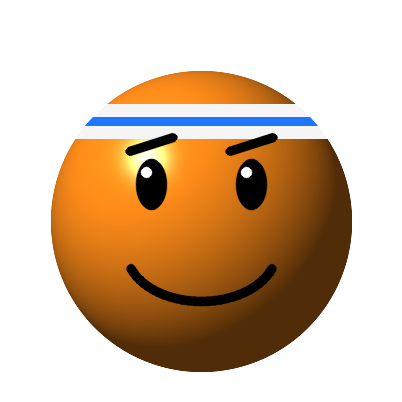
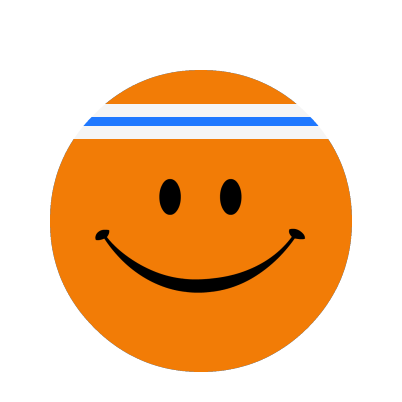
Character images in the app are the real Verity art (recolored), not drawn balls

diff --git a/verity/avatar.py b/verity/avatar.py
@@ -101,7 +101,9 @@ def _inside(img, layer):
 
 # static parts, baked into the base once per character
 def split_base(img, color):
-    layer = img.copy(); layer[:, CX:, :3] = (layer[:, CX:, :3].astype(np.float32) * .45 + 255 * .55).astype(np.uint8)
+    layer = img.copy(); right = layer[:, CX:, :3]
+    face = right.max(axis=2, keepdims=True) > 90                          # lighten the face colour only, keep eyes and mouth black
+    layer[:, CX:, :3] = np.where(face, (right.astype(np.float32) * .45 + 255 * .55).astype(np.uint8), right)
     _inside(img, layer)
     cv2.putText(img, '+', (CX - R + 18, CY + 20), cv2.FONT_HERSHEY_SIMPLEX, 1.6, BLACK, 5, cv2.LINE_AA)
     cv2.putText(img, '-', (CX + R - 52, CY + 16), cv2.FONT_HERSHEY_SIMPLEX, 1.8, BLACK, 6, cv2.LINE_AA)
